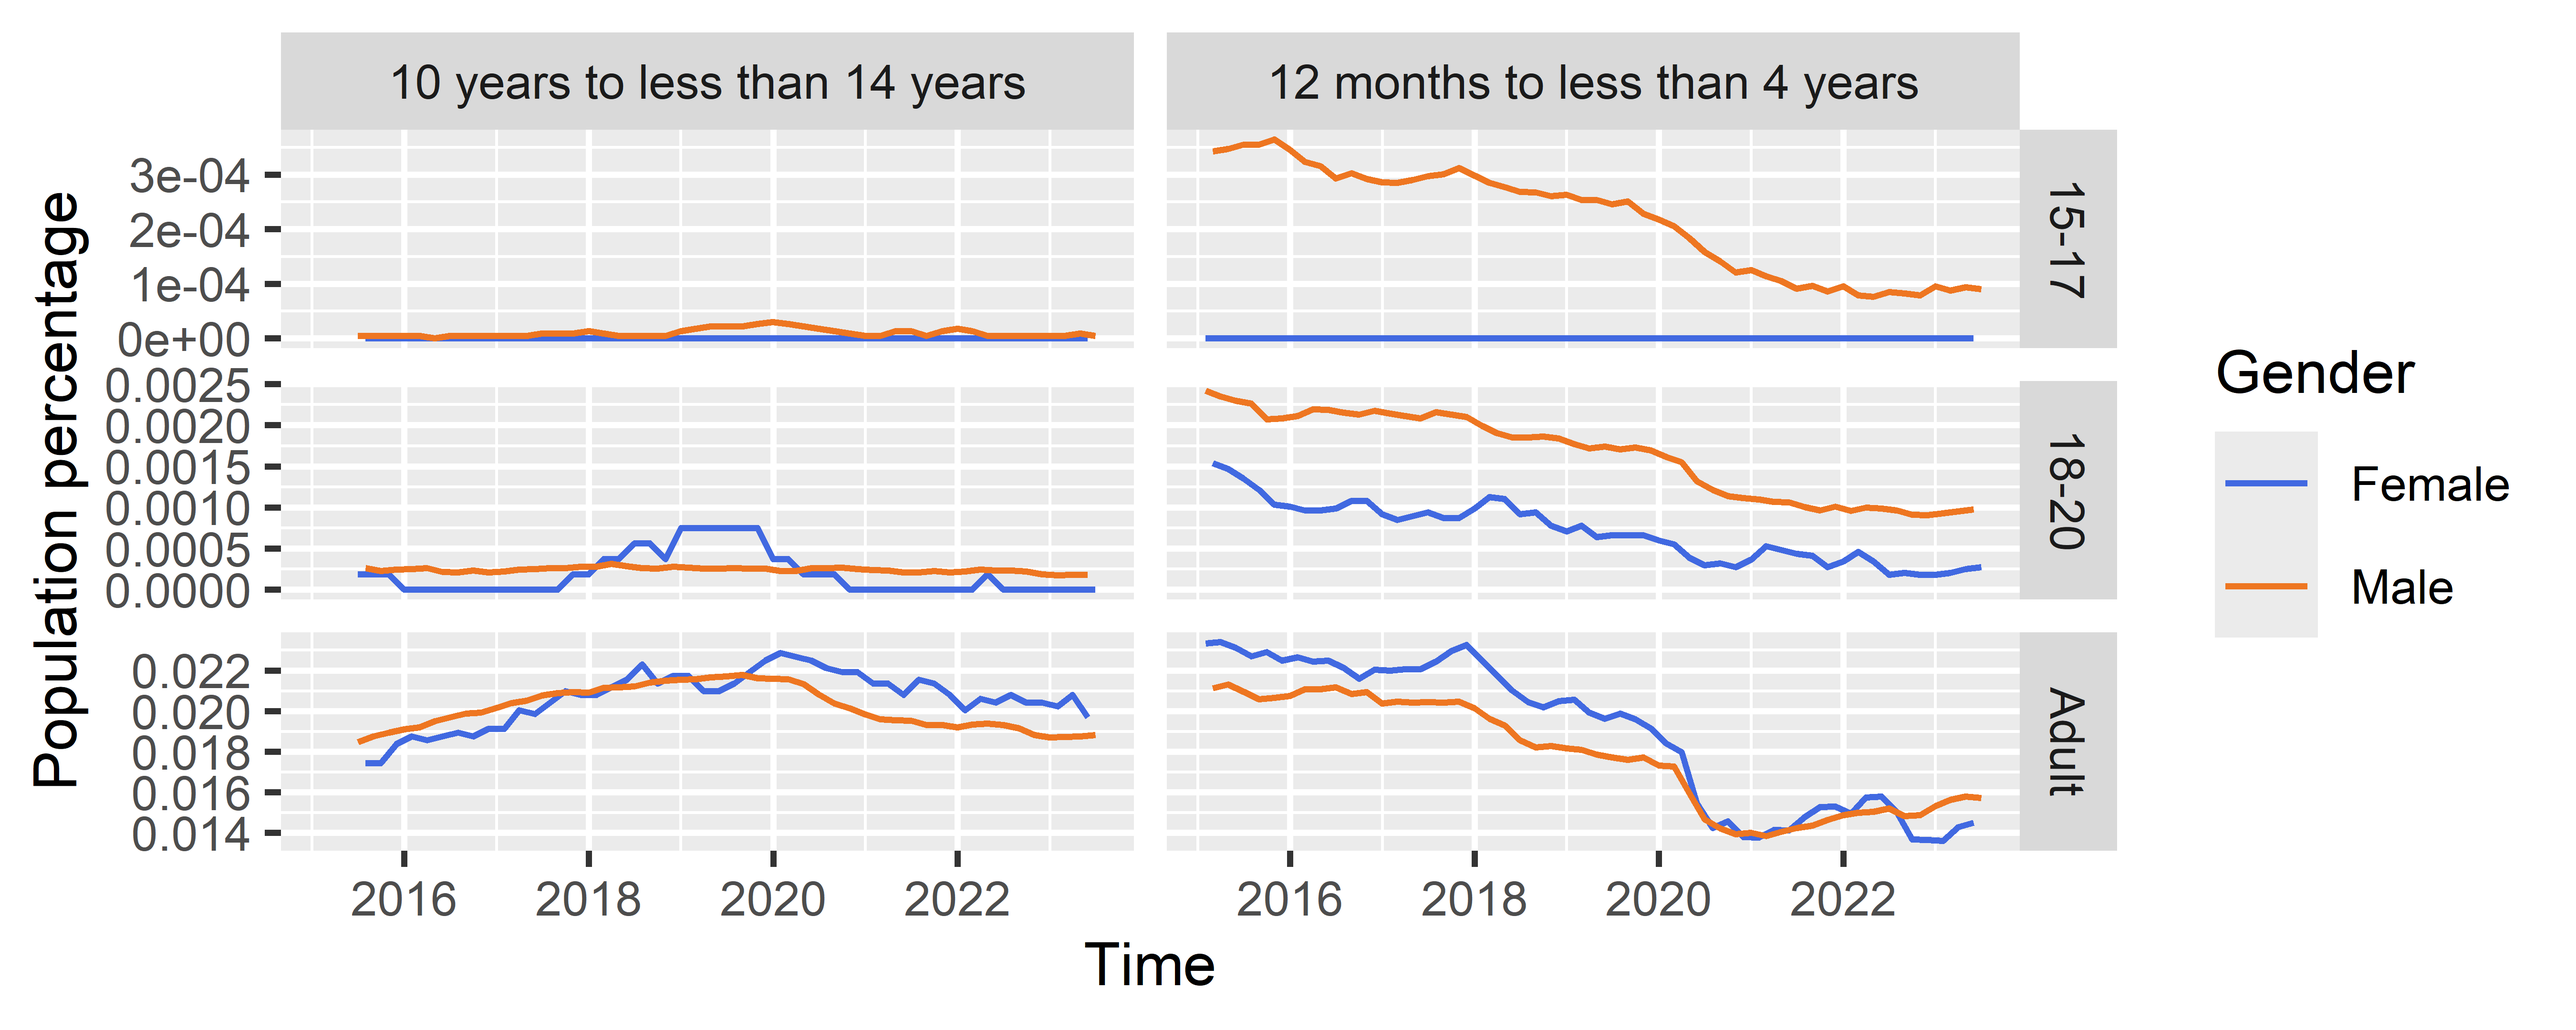
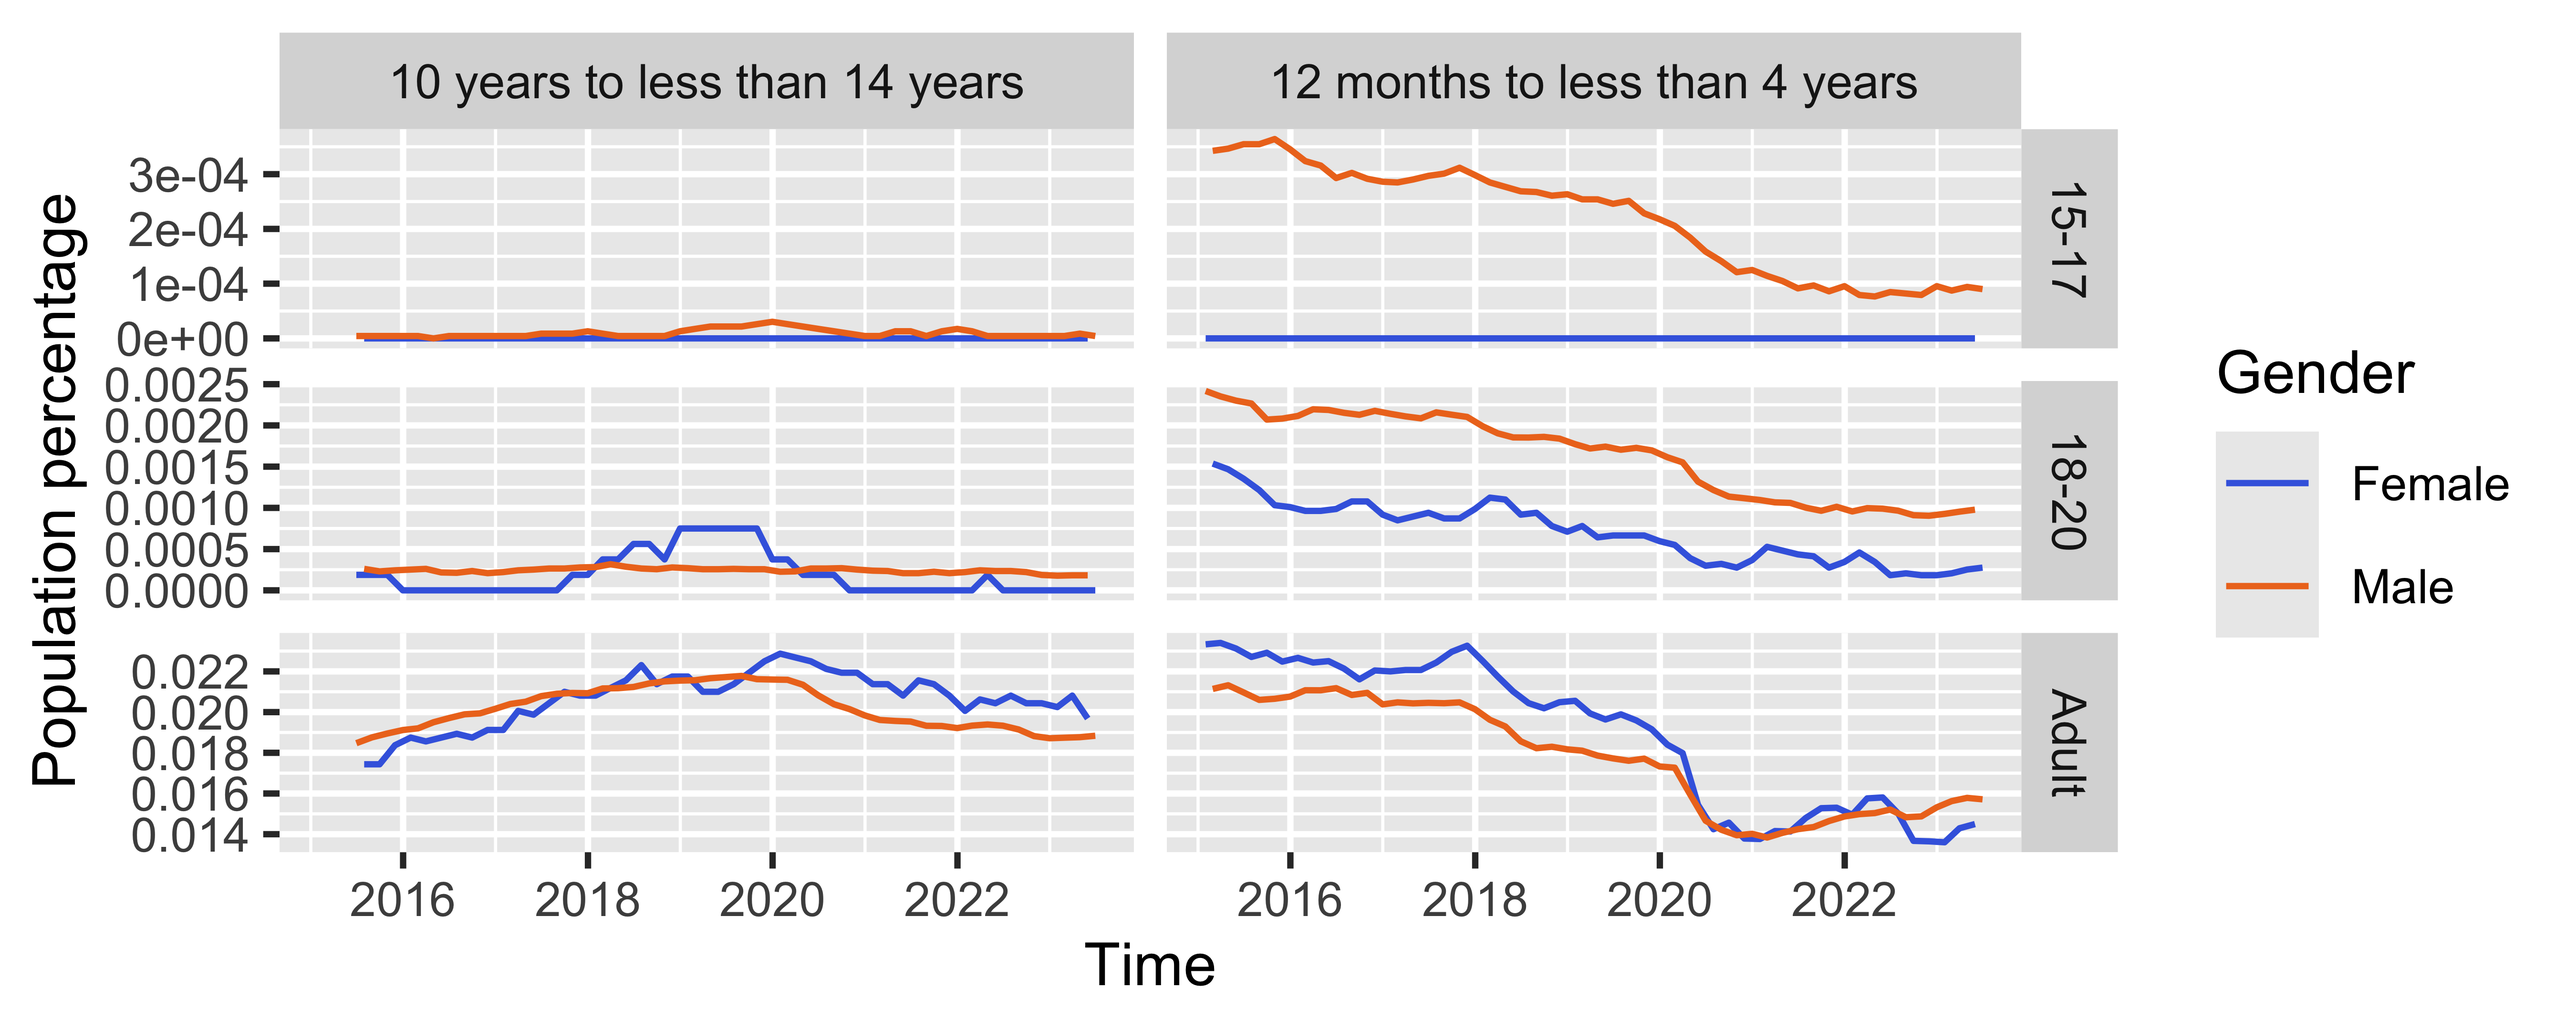
changed reform graph, brough to next page

diff --git a/presentation.html b/presentation.html
@@ -4,7 +4,7 @@
     <title>Correlation Between Significant Events and Prison Population</title>
     <meta charset="utf-8" />
     <meta name="author" content="Members  Sky, Marcel, Siddhi, Maggie, Vivi, Hanna" />
-    <meta name="date" content="2024-11-21" />
+    <meta name="date" content="2024-11-24" />
     <script src="libs/header-attrs-2.28/header-attrs.js"></script>
     <link rel="stylesheet" href="xaringan-themer.css" type="text/css" />
   </head>
@@ -25,7 +25,7 @@ class: center, middle, inverse, title-slide
 ### University of Edinburgh
 ]
 .date[
-### 2024-11-21
+### 2024-11-24
 ]
 
 ---
@@ -59,7 +59,9 @@ class: inverse, center, middle
 ---
 #REFORMS
 
-&lt;img src="img/Marcel_Siddhi_graph.jpg" width="80%" /&gt;
+&lt;img src="img/Marcel_Sid.png" width="80%" /&gt;
+---
+&lt;img src="img/Marcel_sid_graph2.png" width="80%" /&gt;
 
 ---
 #PRIME MINISTERS
@@ -138,7 +140,7 @@ class: inverse, center, middle
 - Urban Hotspots: Dense city areas like London and Manchester saw higher robbery rates, especially in public spaces.
 - Crime Displacement: Focused policing on knife crime may have inadvertently shifted criminal activity toward robbery in some areas.
 
-
+---
 
 
 ---
